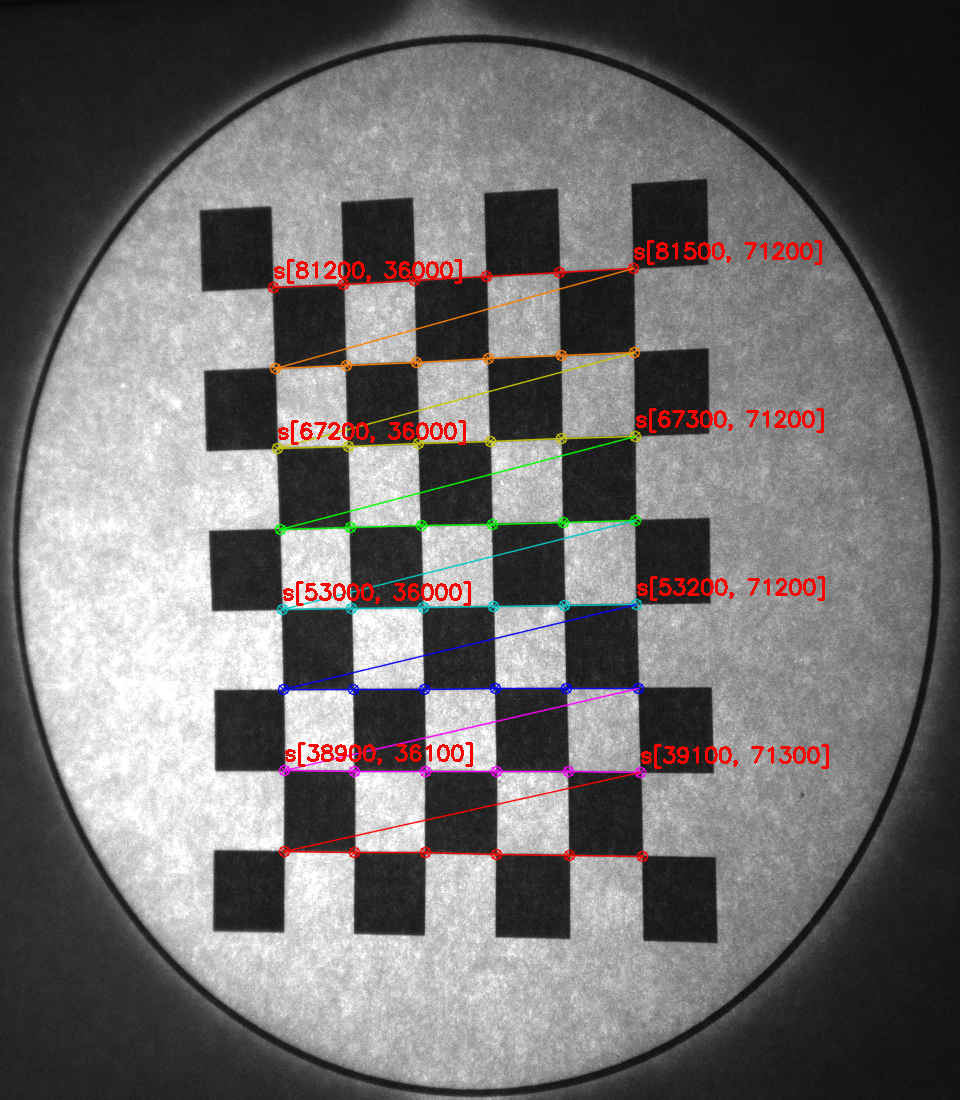
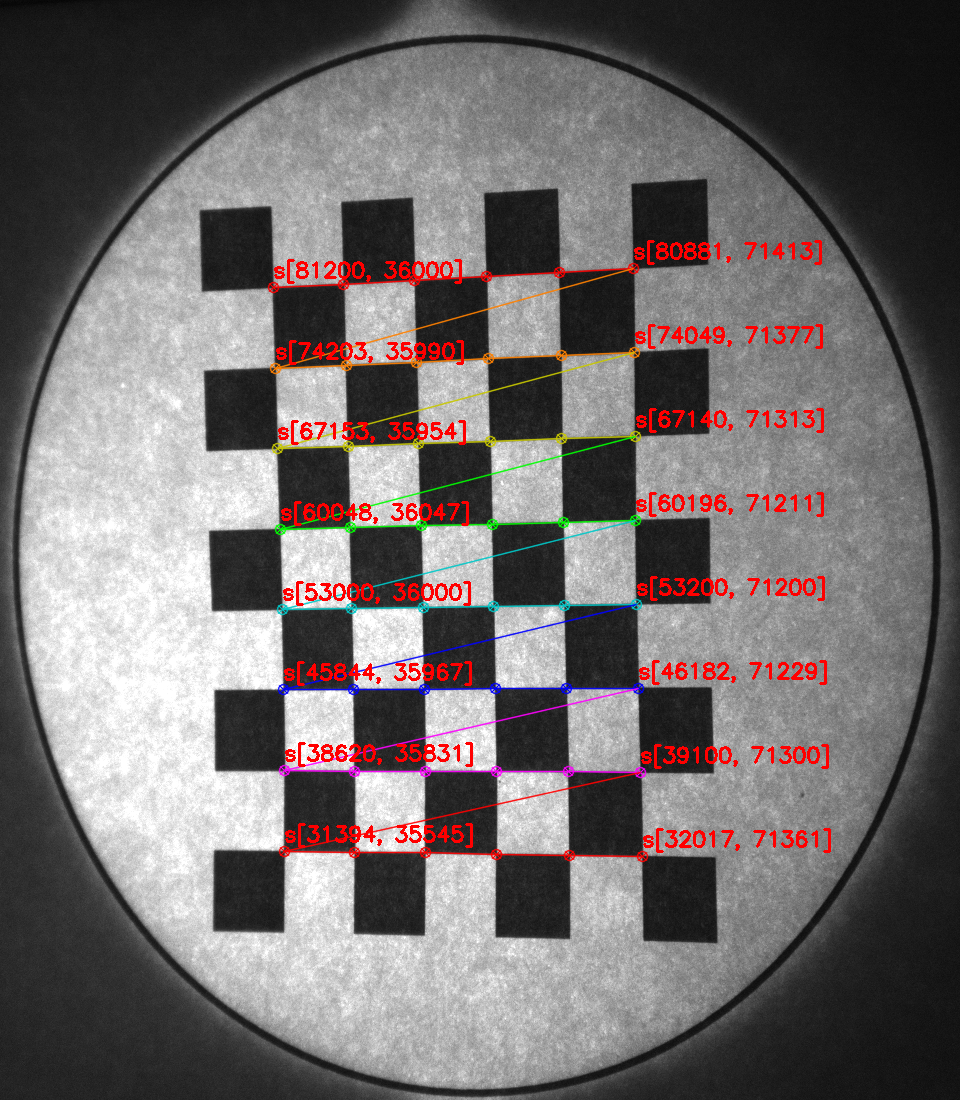
Compute more stage points.

diff --git a/src/ZebrafishTrackerCalibration.cpp b/src/ZebrafishTrackerCalibration.cpp
@@ -27,6 +27,7 @@ int main(int argc, char * argv[])
     return -1;
   }
 
+  // image_points
   size_t pattern_count_col = 6;
   size_t pattern_count_row = 8;
   cv::Size patternsize(pattern_count_col,pattern_count_row);
@@ -63,13 +64,41 @@ int main(int argc, char * argv[])
     }
   }
 
+  // stage_points: found experimentally on rig
+  std::vector<cv::Point2f> stage_points;
+
+  stage_points.push_back(cv::Point2f(81200,36000)); stage_points.push_back(cv::Point2f(81500,71200));
+
+  stage_points.push_back(cv::Point2f(67200,36000)); stage_points.push_back(cv::Point2f(67300,71200));
+
+  stage_points.push_back(cv::Point2f(53000,36000)); stage_points.push_back(cv::Point2f(53200,71200));
+
+  stage_points.push_back(cv::Point2f(38900,36100)); stage_points.push_back(cv::Point2f(39100,71300));
+
+  // find homography
+  cv::Mat homography_image_to_stage = cv::findHomography(image_points,stage_points,CV_RANSAC);
+  cv::Mat homography_stage_to_image = cv::findHomography(stage_points,image_points,CV_RANSAC);
+
+  // use more image points
+  std::vector<cv::Point2f> image_points_more;
+  for (size_t row=0; row<pattern_count_row; ++row)
+  {
+    for (size_t col=0; col<pattern_count_col; ++col)
+    {
+      if ((col % (pattern_count_col - 1)) == 0)
+      {
+        image_points_more.push_back(corners[row*pattern_count_col + col]);
+      }
+    }
+  }
+
   float font_scale = 0.7;
   int font_thickness = 2;
 
   cv::Mat checkerboard_image_points;
   cv::cvtColor(checkerboard,checkerboard_image_points,CV_GRAY2BGR);
   cv::drawChessboardCorners(checkerboard_image_points,patternsize,cv::Mat(corners),patternfound);
-  for (std::vector<cv::Point2f>::iterator it = image_points.begin(); it != image_points.end(); ++it)
+  for (std::vector<cv::Point2f>::iterator it = image_points_more.begin(); it != image_points_more.end(); ++it)
   {
     cv::Point2i image_pt = *it;
     std::stringstream image_pt_ss;
@@ -85,24 +114,27 @@ int main(int argc, char * argv[])
   }
   cv::imwrite("images/checkerboard_image_points.png",checkerboard_image_points);
 
-  // found experimentally on rig
-  std::vector<cv::Point2f> stage_points;
-
-  stage_points.push_back(cv::Point2f(81200,36000)); stage_points.push_back(cv::Point2f(81500,71200));
-
-  stage_points.push_back(cv::Point2f(67200,36000)); stage_points.push_back(cv::Point2f(67300,71200));
-
-  stage_points.push_back(cv::Point2f(53000,36000)); stage_points.push_back(cv::Point2f(53200,71200));
-
-  stage_points.push_back(cv::Point2f(38900,36100)); stage_points.push_back(cv::Point2f(39100,71300));
+  cv::FileStorage fs("calibration/calibration.yml", cv::FileStorage::WRITE);
+  std::vector<cv::Point2i> image_points_i;
+  cv::Mat(image_points_more).copyTo(image_points_i);
+  std::vector<cv::Point2i> stage_points_i;
+  cv::Mat(stage_points).copyTo(stage_points_i);
+  std::vector<cv::Point2f> image_points_calculated;
+  cv::perspectiveTransform(stage_points,image_points_calculated,homography_stage_to_image);
+  std::vector<cv::Point2i> image_points_calculated_i;
+  cv::Mat(image_points_calculated).copyTo(image_points_calculated_i);
+  std::vector<cv::Point2f> stage_points_calculated;
+  cv::perspectiveTransform(image_points_more,stage_points_calculated,homography_image_to_stage);
+  std::vector<cv::Point2i> stage_points_calculated_i;
+  cv::Mat(stage_points_calculated).copyTo(stage_points_calculated_i);
 
   cv::Mat checkerboard_stage_points;
   cv::cvtColor(checkerboard,checkerboard_stage_points,CV_GRAY2BGR);
   cv::drawChessboardCorners(checkerboard_stage_points,patternsize,cv::Mat(corners),patternfound);
-  for (size_t i=0; i<stage_points.size(); ++i)
+  for (size_t i=0; i<stage_points_calculated_i.size(); ++i)
   {
-    cv::Point2i stage_pt = stage_points[i];
-    cv::Point2i image_pt = image_points[i];
+    cv::Point2i stage_pt = stage_points_calculated_i[i];
+    cv::Point2i image_pt = image_points_more[i];
     std::stringstream stage_pt_ss;
     stage_pt_ss << "s" << stage_pt;
     cv::Point2i text_location(image_pt.x,image_pt.y - 10);
@@ -115,23 +147,6 @@ int main(int argc, char * argv[])
                 font_thickness);
   }
   cv::imwrite("images/checkerboard_stage_points.png",checkerboard_stage_points);
-
-  cv::FileStorage fs("calibration/calibration.yml", cv::FileStorage::WRITE);
-  std::vector<cv::Point2i> image_points_i;
-  cv::Mat(image_points).copyTo(image_points_i);
-  std::vector<cv::Point2i> stage_points_i;
-  cv::Mat(stage_points).copyTo(stage_points_i);
-  cv::Mat homography_image_to_stage = cv::findHomography(image_points,stage_points,CV_RANSAC);
-  cv::Mat homography_stage_to_image = cv::findHomography(stage_points,image_points,CV_RANSAC);
-  std::vector<cv::Point2f> image_points_calculated;
-  cv::perspectiveTransform(stage_points,image_points_calculated,homography_stage_to_image);
-  std::vector<cv::Point2i> image_points_calculated_i;
-  cv::Mat(image_points_calculated).copyTo(image_points_calculated_i);
-  std::vector<cv::Point2f> stage_points_calculated;
-  cv::perspectiveTransform(image_points,stage_points_calculated,homography_image_to_stage);
-  std::vector<cv::Point2i> stage_points_calculated_i;
-  cv::Mat(stage_points_calculated).copyTo(stage_points_calculated_i);
-
 
   fs << "image_points" << image_points_i;
   fs << "image_points_calculated" << image_points_calculated_i;
